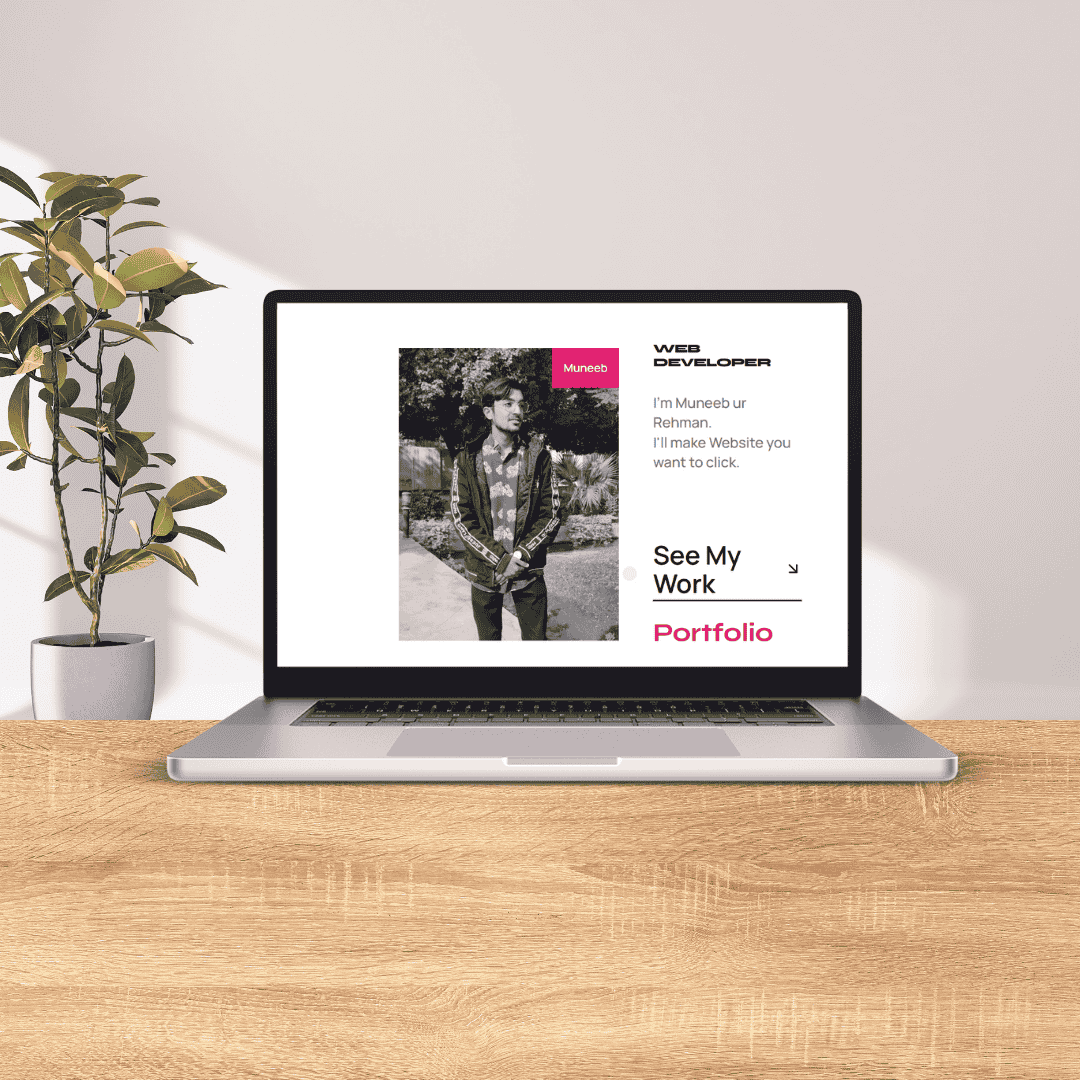
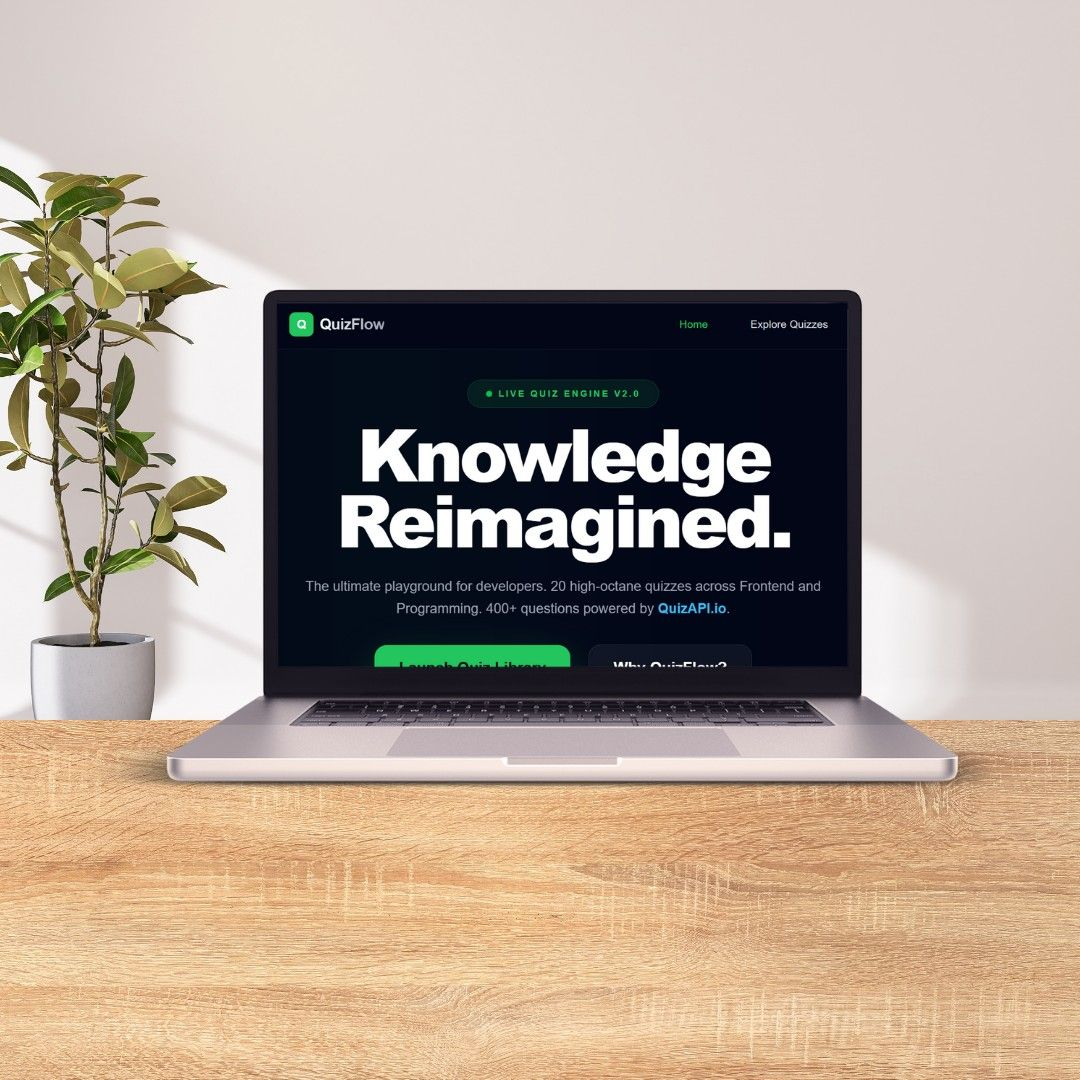
ok

diff --git a/src/constants/index.js b/src/constants/index.js
@@ -55,7 +55,7 @@ export const projects = [
   {
     id: 1,
     title: "Novashop",
-    category: "E Commerce",
+    category: "E-Commerce",
     image: pj1,
     link: "https://muneeburrehmaan.github.io/NovaShop.co/",
     code: 'https://github.com/muneeburrehmaan/NovaShop.co'
@@ -70,27 +70,28 @@ export const projects = [
   },
   {
     id: 3,
-    title: "Weather Web",
-    category: "Weather Website",
+    title: "Weather Website",
+    category: "Weather App",
     image: pj3,
     link: "https://muneeburrehmaan.github.io/weatherapp/",
     code: 'https://github.com/muneeburrehmaan/Nikey-Shoes-Web'
   },
-  {
+   {
     id: 4,
+    title: "QuizFlow",
+    category: "Quiz App",
+    image: pj4,
+    link: "https://muneeburrehmaan.github.io/quizflow/",
+  },
+  {
+    id: 5,
     title: "Gallery",
     category: "Gallery project",
     image: pj5,
     link: "https://muneeburrehmaan.github.io/gallery-project/",
     code: 'https://github.com/muneeburrehmaan/gallery-project'
   },
-  {
-    id: 5,
-    title: "Portfolio",
-    category: "Mobile Application",
-    image: pj4,
-    link: "https://muneeburrehmaan.github.io/portfolio/"
-  },
+ 
   {
     id: 6,
     title: "Nikey Shoes Web",

diff --git a/src/components/WorkCard.jsx b/src/components/WorkCard.jsx
@@ -8,17 +8,17 @@ const WorkCard = (project) => {
         >
 
             {/* Image */}
-            <div className="recent-work-item relative aspect-4/2 overflow-hidden" onMouseEnter={() => window.dispatchEvent(new Event("cursor-hover-button"))}
+            <div className="recent-work-item relative   aspect-4/2 overflow-hidden " onMouseEnter={() => window.dispatchEvent(new Event("cursor-hover-button"))}
                 onMouseLeave={() => window.dispatchEvent(new Event("cursor-hover-leave"))} >
 
-                <a href={project.link} target='_blank'><div className='cursor-none absolute w-full h-full bg-transparent z-14 '> </div> </a>
+                <a href={project.link} target='_blank'><div className='cursor-none group absolute w-full h-full bg-transparent z-14 '> </div> </a>
 
                 <img
 
                     src={project.image}
                     loading='lazy'
                     alt={project.title}
-                    className="w-full h-full object-cover "
+                    className="w-full h-full object-cover transition-all group-hover:scale-105 duration-300  "
                 />
 
             </div>

diff --git a/src/components/TechStackMarquee.jsx b/src/components/TechStackMarquee.jsx
@@ -85,10 +85,10 @@ const TechStackMarquee = () => {
                 key={`${loop}-${index}`}
                 className="flex items-center gap-3 px-4 py-2 bg-[#faf9f6] rounded-full shadow-sm border border-gray-100 min-w-max hover:shadow-md transition-shadow group"
               >
-                <div className="w-6 h-6 group-hover:scale-110 transition-transform duration-300">
+                <div className="w-4 h-6 sm:w-6 sm:h-6 group-hover:scale-110 transition-transform duration-300">
                   {tech.icon}
                 </div>
-                <span className="text-gray-700 font-medium text-lg whitespace-nowrap">
+                <span className="text-gray-700 font-medium  sm:text-lg whitespace-nowrap">
                   {tech.name}
                 </span>
               </div>

diff --git a/index.html b/index.html
@@ -8,7 +8,7 @@
   <!-- <script src="https://files.bpcontent.cloud/2025/12/17/19/20251217190359-8MLPCBJB.js" defer></script> -->
     
   <meta charset="UTF-8" />
-  <link rel="icon" type="image/svg+xml" href="./src/assets/logo.png" />
+  <link  rel="icon" type="image/svg+xml" href="./src/assets/logo.webp" />
   <meta name="viewport" content="width=device-width, initial-scale=1.0" />
   <title>Muneeb's Portfolio</title>
 

diff --git a/src/index.css b/src/index.css
@@ -7,10 +7,13 @@
   }
 }
 
-
+html{
+  scroll-behavior:smooth;
+  color-scheme: light;
+}
  body {
       background-color: #fffdf5;
-      scroll-behavior:smooth;
+      
        overflow-x: hidden;
     }
 
@@ -25,8 +28,8 @@
 }
 
 .cursor-img {
-  width:240px;
-  height: 190px;
+  width:300px;
+  height: 230px;
   height: auto;
   opacity: 0;
   transform: scale(0.5);

diff --git a/src/App.jsx b/src/App.jsx
@@ -13,7 +13,8 @@ const App = () => {
 
   return (
     <div className='relative'>
-      <CustomCursor />
+      <div className='max-sm:hidden'><CustomCursor /></div>
+      
       <Navbar />
       <MobileBottomNav />
       <div className="bg-[#f9f6ed] min-h-screen w-full text-gray-900 antialiased font-sans selection:bg-orange-200 selection:text-orange-900">

diff --git a/src/components/CustomCursor.jsx b/src/components/CustomCursor.jsx
@@ -108,7 +108,7 @@ const CustomCursor = () => {
         ref={imgRef}
         src={images[imgIndex]}
         alt="cursor"
-        className="cursor-img fixed pointer-events-none z-999 rounded  "
+        className="cursor-img fixed pointer-events-none z-999 rounded max-sm:hidden "
       />
     </>
   );
